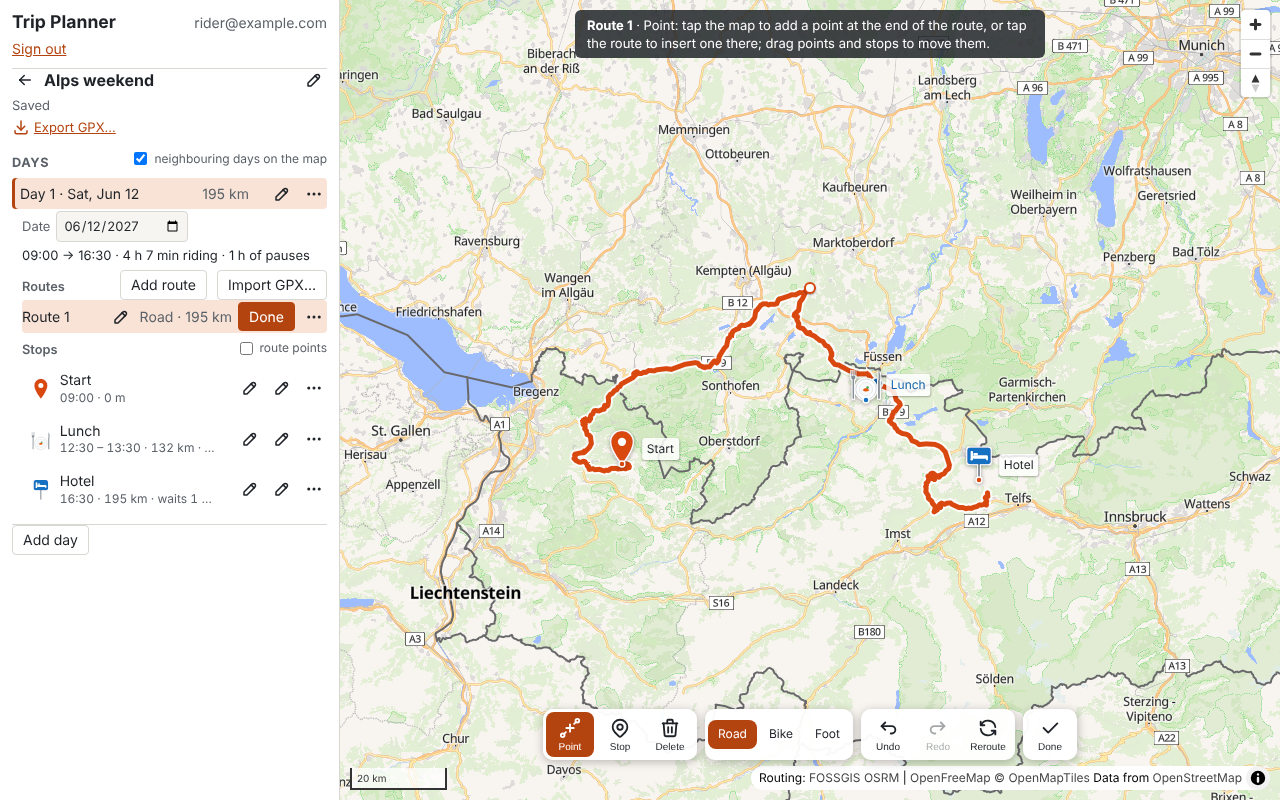
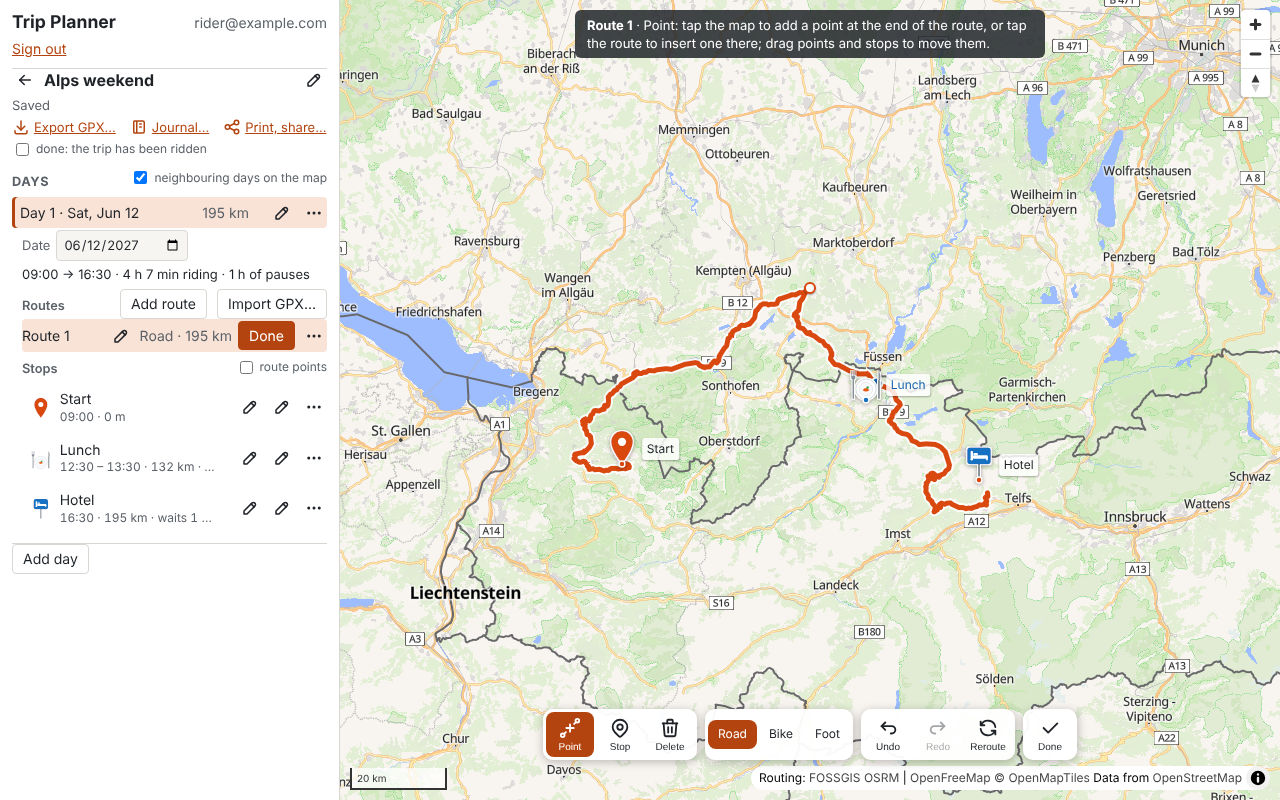
Document phase 5: journal, trip state, sharing
Overview, features, architecture (API, schema, layers), decisions,
stack notes on exif, fileinfo and upload limits, and the README with
the new screenshot. CI installs the exif extension.

Changed region(s): [[0.0, 0.1562, 0.2812, 0.7188]]

diff --git a/.github/architecture.md b/.github/architecture.md
@@ -10,12 +10,13 @@ flowchart LR
   subgraph browser["Browser"]
     pages["Landing, sign-up, sign-in<br/>server-rendered pages"]
     app["Planner app<br/>SolidJS + MapLibre GL JS"]
+    view["Read-only trip page<br/>own or shared under a link"]
   end
   subgraph server["planner.codevoid.de<br/>OpenBSD, httpd, php-fpm"]
     httpd["httpd<br/>static files, FastCGI"]
-    php["PHP application (Slim)<br/>pages, JSON API, GPX export"]
-    db[("SQLite<br/>accounts, trips")]
-    files[("File store<br/>photos, receipts, documents")]
+    php["PHP application (Slim)<br/>pages, JSON API, GPX export, journal files"]
+    db[("SQLite<br/>accounts, trips, journal")]
+    files[("File store<br/>the journal's files and previews")]
     smtpd["smtpd<br/>127.0.0.1:25"]
   end
   subgraph remote["Remote services"]
@@ -24,12 +25,14 @@ flowchart LR
   end
   pages --> httpd
   app -->|JSON API| httpd
+  view -->|JSON API, read-only| httpd
   httpd --> php
   php --> db
   php --> files
   php -->|invitations, password resets| smtpd
   app --> osrm
   app --> tiles
+  view --> tiles
 ```
 
 ## Block diagram
@@ -38,8 +41,8 @@ flowchart LR
 flowchart TB
   subgraph frontend["Planner app (frontend/)"]
     direction TB
-    ui["Presentation<br/>library, trip panel, map, toolbar, markers"]
-    state["Application state<br/>the open trip, undo and redo, routing pump, autosave"]
+    ui["Presentation<br/>library, trip panel, dialogs, map, toolbar, markers; the read-only page"]
+    state["Application state<br/>the open trip, undo and redo, routing pump, autosave, the journal"]
     fdomain["Domain<br/>route and day edits, legs, polyline"]
     client["API client"]
     ui --> state --> fdomain
@@ -48,7 +51,7 @@ flowchart TB
   subgraph backend["PHP application (src/)"]
     direction TB
     http["HTTP<br/>routes, middleware, templates, JSON"]
-    domain["Domain<br/>accounts, invitations, trip documents, export"]
+    domain["Domain<br/>accounts, invitations, trip documents, export, journal, sharing"]
     storage["Storage<br/>SQLite repositories, file store, mail"]
     http --> domain --> storage
   end
@@ -57,29 +60,38 @@ flowchart TB
 
 | Layer | Contents |
 |---|---|
-| Presentation (frontend) | The library (`library/`), the trip panel (`trip/`), the map with its route lines, stop and point markers, interactions, toolbar, hint bar and context menu (`map/`), dialogs and small controls (`ui/`). |
-| Application state (frontend) | The open trip, the selected day and the route being edited, undo and redo and the actions that edit the trip (`state/trip.ts`), the pull-based routing pump (`state/routing.ts`), the autosave (`state/autosave.ts`), the tool, the toggles, the open menu and dialog (`state/drawing.ts`). |
+| Presentation (frontend) | The library (`library/`), the trip panel and its dialogs for a stop, the export, the journal and sharing (`trip/`), the map with its route lines, stop, point and photo markers, interactions, toolbar, hint bar and context menu (`map/`), small controls (`ui/`), and the read-only trip page with its own map (`view/`), a second entry (`view.tsx`). |
+| Application state (frontend) | The open trip, the selected day and the route being edited, undo and redo and the actions that edit the trip (`state/trip.ts`), the pull-based routing pump (`state/routing.ts`), the autosave, which sends the stops in riding order (`state/autosave.ts`), the open trip's journal (`state/journal.ts`), the tool, the toggles, the open menu and dialogs (`state/drawing.ts`). |
 | Domain (frontend) | Pure edits of a route and of a day's stops and routes, the riding sequence of a day with distances and riding times, the day's timeline, leg keys and geometry, the polyline codec, the OSRM client (`routing/`); reading GPX files into routes and stops (`gpx/`); distances, nearest-line search and line simplification (`geo/`); the document types (`model/`). |
 | API client (frontend) | `api.ts`: requests to the JSON API, the one place that knows its URLs. |
-| HTTP (backend) | Slim routes and middleware (sessions, CSRF, body parsing, authentication), Plates templates for the public pages, JSON encoding of API answers (`Http/`, `Pages/`, `Api/`). |
-| Domain (backend) | Accounts and password resets (`Account/`), waiting list and invitations (`Signup/`), the library's trips and folders, trip documents with their validator and copies (`Trip/`), GPX writing with its options, the proximity of free stops and the export presets (`Export/`). |
-| Storage (backend) | PDO repositories over SQLite, the file store on disk, mail over SMTP (`Mail/`). |
+| HTTP (backend) | Slim routes and middleware (sessions, CSRF, body parsing, authentication), Plates templates for the public pages and the two bundle pages, JSON encoding of API answers (`Http/`, `Pages/`, `Api/`). |
+| Domain (backend) | Accounts and password resets (`Account/`), waiting list and invitations (`Signup/`), the library's trips and folders with their state and share token, trip documents with their validator and copies (`Trip/`), GPX writing with its options, the proximity of free stops and the export presets (`Export/`), the journal's entries, EXIF reading, files and previews (`Journal/`), the read-only API of a shared trip (`Share/`). |
+| Storage (backend) | PDO repositories over SQLite, the file store on disk (`Journal/FileStore`), mail over SMTP (`Mail/`). |
 
 ## API
 
-All under `/api`, for a signed-in user; answers are JSON unless a download.
+All under `/api`, for a signed-in user; answers are JSON unless a download or a file.
 
 | Method and path | Does |
 |---|---|
 | `GET /me` | The user's e-mail address and admin flag. |
-| `GET /trips` | The user's trips, last changed first, with their folder, day count and first dated day. |
+| `GET /trips` | The user's trips, last changed first, with their folder, state, day count and first dated day. |
 | `POST /trips` | Creates a trip from `{name, folderId}`; the folder may be null. |
-| `GET /trips/{id}` | The trip document: name, description, version, days (each with its date) with routes and stops. |
+| `GET /trips/{id}` | The trip document: name, description, state, version, days (each with its date) with routes and stops in riding order. |
 | `PUT /trips/{id}` | Replaces the trip's content with the document sent, which carries the version it was loaded at; 409 when that is no longer the current version, 422 when the document is malformed or names parts of another trip. |
 | `POST /trips/{id}/copies` | A copy of the trip with all its days under new ids, named after it, in its folder; answers the copy's id. |
 | `PATCH /trips/{id}` | Puts the trip into the folder of `{folderId}`, or into none for null. |
 | `DELETE /trips/{id}` | Deletes the trip with everything in it. |
 | `GET /trips/{id}/gpx` | The trip as GPX with the options `per=trip|day` (one file, or a zip with one per day), `form=tracks|routes`, `optional=0|1`, `reachM=<metres>`; `?day=<id>` one day alone. |
+| `GET /trips/{id}/share` | `{token}`: the token the trip's read-only page is public under, or null. |
+| `POST /trips/{id}/share` | Makes the page public under the trip's token, a new one where it has none; answers `{token}`. |
+| `DELETE /trips/{id}/share` | Takes the page off the public. |
+| `GET /trips/{id}/entries` | The trip's journal entries, oldest first: text, file (name, media type, size, whether an image), the part it is on, when and where a photo was taken. |
+| `POST /trips/{id}/entries` | Adds an entry from a multipart form: `text`, one of `dayId`, `stopId`, `routeId` (none for the trip), `file`. A photo's EXIF time and position are read; one with a time and no part goes to the day of that date. |
+| `PATCH /trips/{id}/entries/{entry}` | Replaces the entry's text from `{text}`. |
+| `DELETE /trips/{id}/entries/{entry}` | Deletes the entry with its file. |
+| `GET /trips/{id}/entries/{entry}/file` | The file as uploaded, shown in the browser where it can be, offered for download otherwise. |
+| `GET /trips/{id}/entries/{entry}/preview` | A small JPEG of an image entry. |
 | `GET /export-presets` | The user's export presets by name. |
 | `POST /export-presets` | Keeps `{name, options}` as a preset, replacing one of that name. |
 | `DELETE /export-presets/{id}` | Deletes the preset. |
@@ -88,10 +100,15 @@ All under `/api`, for a signed-in user; answers are JSON unless a download.
 | `PATCH /folders/{id}` | Renames the folder from `{name}`. |
 | `DELETE /folders/{id}` | Deletes the folder; its trips stay, in no folder. |
 
+A trip shared under a token is readable without sign-in under `/api/shared/{token}`:
+the document, `/entries`, `/entries/{entry}/file` and `/entries/{entry}/preview`, as above.
+
+The read-only page is served at `/trips/{id}` for the owner and at `/t/{token}` for
+everyone; the page names the API it reads from.
+
 ## Database
 
-The schema is `db/schema.sql`. Attachments and comments are planned, not in the schema
-yet.
+The schema is `db/schema.sql`.
 
 ```mermaid
 erDiagram
@@ -106,8 +123,10 @@ erDiagram
   DAY ||--o{ ROUTE : "routes, in order"
   DAY ||--o{ STOP : "stops"
   STOP }o--o| ROUTE : "bound to a point of"
-  TRIP ||--o{ ATTACHMENT : "on the trip, a day, a stop or a route"
-  TRIP ||--o{ COMMENT : "on the trip, a day, a stop or a route"
+  TRIP ||--o{ ENTRY : "journal"
+  DAY |o--o{ ENTRY : "on"
+  STOP |o--o{ ENTRY : "on"
+  ROUTE |o--o{ ENTRY : "on"
 
   USER {
     int id PK
@@ -147,6 +166,8 @@ erDiagram
     int id PK
     string name
     string description
+    string state "planned, done"
+    string share_token "while the read-only page is public"
     int version
     datetime updated_at
   }
@@ -169,6 +190,7 @@ erDiagram
   }
   STOP {
     string id PK
+    int position "riding order, as the client computes it"
     string name
     string kind "the icon: hotel, restaurant, fuel, sight, photo, break, other"
     float lng
@@ -182,25 +204,25 @@ erDiagram
     int pause_minutes
     bool optional
   }
-  ATTACHMENT {
-    int id PK
-    string kind "photo, receipt, document"
-    string file
-    string caption
-    datetime taken_at
-  }
-  COMMENT {
+  ENTRY {
     int id PK
     string text
+    string file_name "null for a note alone"
+    string media_type
+    int size
+    datetime taken_at "a photo's EXIF time, as the camera wrote it"
+    float lng "a photo's EXIF position"
+    float lat
     datetime created_at
   }
 ```
 
-Attachments and comments are planned (phase 5). A trip's parts carry ids the client
-generates, so that the trip's content is saved as one document: rows are upserted by id
-and the ones the document no longer holds are deleted. A route's points and legs are
-stored as JSON in the route's row, in the shape the editor works with; each routed leg
-holds its polyline6 geometry, length and riding time as OSRM answered. A bound stop's
-position equals its route point's, which the validator checks. Attachments and comments
-will carry one nullable foreign key per possible target with a check that exactly one is
-set, so that deleting a target deletes them.
+A trip's parts carry ids the client generates, so that the trip's content is saved as
+one document: rows are upserted by id and the ones the document no longer holds are
+deleted. A route's points and legs are stored as JSON in the route's row, in the shape
+the editor works with; each routed leg holds its polyline6 geometry, length and riding
+time as OSRM answered. A bound stop's position equals its route point's, which the
+validator checks. A journal entry belongs to its trip and names at most one of a day, a
+stop or a route by a nullable foreign key; when that part goes, the key is set to null
+and the entry stays with the trip. An entry's file lies in the file store under
+`files/{trip}/{entry}`, its preview beside it.

diff --git a/.github/decisions.md b/.github/decisions.md
@@ -89,7 +89,7 @@ entries at the end of their section.
   the app offers to reload, which is enough while a trip has one editor.
 - **Parts carry client-generated ids and are upserted.** The server upserts each day, stop
   and route by id and deletes the rows the document no longer holds, rather
-  than deleting and reinserting: attachments of phase 4 will reference stops and routes
+  than deleting and reinserting: journal entries reference days, stops and routes
   by id and must survive a save. Since the ids are the client's choice, a save first
   checks that none of them belongs to another trip, in one place, rather than guarding
   each upsert. Trips themselves are created by the server with integer ids; a trip is the
@@ -127,6 +127,50 @@ entries at the end of their section.
   as starting on the earliest of them. A new day after a dated one is dated the day
   after, so a consecutive trip needs one date typed. A trip-level start date was tried
   and dropped: it was a second source for the same fact.
+
+## After the trip
+
+- **One kind of journal entry, not attachments and comments.** The plan had photos,
+  receipts and documents as attachments and notes as comments. In use they are one
+  thing: a note, a file, or a file with a note under it, in order of adding. One table,
+  one dialog, one list; a file's media type says what it is.
+- **An entry outlives its part.** A photo on a stop stays with the trip when the stop
+  is removed, with its day, stop or route reference set to null: the journal is the
+  record of the trip, and a removed stop is still where the photo was taken. The first
+  draft cascaded the deletion; a stop moved in a reorganisation would have taken its
+  photos with it.
+- **Photos are placed by their EXIF data on the server.** The server reads the time the
+  camera wrote (local, without a zone) and the GPS position when a file is stored, since
+  it has the file anyway and the browser would need a parser of its own. A photo added
+  to the trip itself goes to the day of its date; one added to a day, a stop or a route
+  stays where the user put it. The position places it on the map; nothing is matched
+  against the route. Without the exif extension a photo is kept and shown, not placed.
+- **Files are served through PHP, not by httpd.** A file is read by its owner or through
+  the trip's share token, so every read passes the application's check; the file store
+  lies outside the web root. Previews are small JPEGs made with GD on first request and
+  kept beside the file, so a page with many photos loads a few hundred kilobytes.
+- **The trip's state is part of the document.** Planned or done is saved with the trip
+  like its name, counts as an undo step and shows in the library. A separate endpoint
+  for one flag would have been a second way to change a trip.
+- **Stops are stored in riding order.** The client computes the order from the routes
+  (the sequence); the autosave sends each day's stops in it, and the server stores the
+  position. The read-only page and anything on the server can then list stops without
+  the routing geometry. Stops the client lists are still ordered by the sequence, so the
+  stored order is a copy that is always current.
+- **The read-only page is the frontend's second entry.** The timeline, the riding
+  sequence, the distances and the labels exist in TypeScript; porting them to PHP for a
+  server-rendered page would have been a second implementation to keep in step. The
+  page is a small SolidJS bundle without the editor that reads the trip and its journal
+  from the API the page names: the owner's trip API at `/trips/{id}`, or the read-only
+  API of a shared trip at `/t/{token}`, which needs no sign-in. Sharing is a random
+  token on the trip, made and withdrawn by the owner; anyone with the link reads the
+  trip, its journal and its photos. The page prints: the map keeps its drawing buffer,
+  the controls are hidden.
+- **The asset tags walk the manifest's imports.** With two entries, Vite puts the styles
+  both import (MapLibre's and the markers') into the chunk they share, listed under that
+  chunk in the manifest, not under the entries. The tags of a page are the stylesheets
+  of its imported chunks, then its own, in that order, so that an entry's own styles
+  come last as in its source.
 
 ## Export
 
@@ -166,7 +210,9 @@ entries at the end of their section.
   repositories, the validator and the export; Vitest the pure modules and the store. The
   pages and the editor are exercised with Playwright against `php -S` by hand: sign-up,
   a route with the point, stop and delete tools, free stops connected and disconnected,
-  the stop dialog, neighbouring days, folders and the search, and then
+  the stop dialog, neighbouring days, folders and the search, the GPX import and the
+  export dialog, the journal with a photo placed by its EXIF data, the trip's state,
+  sharing and the read-only page as a guest, and then
   from the mailed link, a trip with stops added by tapping, routing, the line tools, undo
   and redo, the save, a reload and the downloads. Routing in that run answers from a mock
   where OSRM cannot be reached. Keeping it in CI would mean a browser and a PHP server in

diff --git a/.github/overview.md b/.github/overview.md
@@ -29,8 +29,8 @@ routing is done in the browser by the FOSSGIS OSRM servers.
 
 ## Phases
 
-Phases 0 to 4 are built; testing phase 1 changed the model (see decisions.md), which
-phase 2 brought in. Later phases describe intent and change as the work progresses.
+Phases 0 to 5 are built; testing phase 1 changed the model (see decisions.md), which
+phase 2 brought in. The later work describes intent and changes as it progresses.
 
 | Phase | Content | Done when |
 |---|---|---|
@@ -39,5 +39,5 @@ phase 2 brought in. Later phases describe intent and change as the work progress
 | 2 Routes and stops | Routes as geometry with stops bound to route points or free beside the route; several routes per day, each with its profile; editing as a mode of one route; the panel listing routes and stops in riding order with distances, panning the map; neighbouring days dimmed. Folders for trips and a search across them. | Built; a weekend planned on it and the GPX working on the device confirm it. |
 | 3 Time | Dates on days. Arrival times and pauses on stops, the computed day timeline from the first timed stop, with waiting and late arrivals. Day summary: distance, riding time, departure and arrival, pauses, late stops. | Built; a day planned with a fixed lunch confirms it. |
 | 4 Library and export | GPX import into a day: routes, tracks, Garmin's calculated way, waypoints as stops. Move, duplicate and copy for days, routes, stops and trips. The export dialog with scope, packaging, tracks or routes, optional parts, reach of free stops, and saved presets. | Built; an export that works on the device and an import of a file from it confirm it. |
-| 5 After the trip | Attachments and comments on everything. Photos placed on the day and the map by their EXIF time and position. Trip state planned or done. A read-only trip page for printing and sharing. |  |
+| 5 After the trip | A journal of notes and files on the trip, a day, a stop or a route. Photos placed on the day and the map by their EXIF time and position. Trip state planned or done. A read-only trip page for printing, shared under a link. | Built; a ridden trip with its photos and notes on the shared page confirms it. |
 | Later | Sharing between users. Valhalla routing with its motorcycle costing. Elevation and surface colouring of routes. Further export formats. |  |

diff --git a/README.md b/README.md
@@ -4,8 +4,8 @@ Plans whole motorcycle trips, not single routes: days of routes drawn along the 
 stops on them or beside them, exported as GPX in the shape a device needs.
 
 Runs at <https://planner.codevoid.de>, by invitation. In development: planning a trip on
-the map with its times and exporting it works; GPX import, photos and receipts are on
-the way.
+the map with its times, GPX in and out, a journal with photos, and a page to print or
+share work; sharing between users is on the way.
 
 ![A day planned on the map](docs/screenshot.png)
 
@@ -35,6 +35,12 @@ the way.
 - **GPX export the way the device wants it** — the trip or a day, one file or one per
   day, routes as tracks or as points for the device to route, with or without the
   optional parts; the settings kept as named presets.
+- **A journal on everything** — notes, photos, receipts and documents on the trip, a
+  day, a stop or a route. Photos stand on the map where they were taken and land on the
+  day they were taken.
+- **Planned, then ridden** — mark a trip done; the library shows it.
+- **Print it, share it** — a read-only page with the map, every day's stops and times
+  and the journal, for printing, or shared under a link that needs no account.
 
 ## Getting started
 
@@ -46,6 +52,8 @@ the way.
 4. Open a stop's details for its arrival time and pause; the first stop's time starts
    the day's timeline.
 5. *Export GPX…* in the trip's panel: pick the scope and the form, download.
+6. After the ride, *Journal…* on the trip, a day, a stop or a route takes the notes and
+   photos; *Print, share…* opens the trip's page or shares it under a link.
 
 | Key or gesture | Does |
 |---|---|

diff --git a/.github/stackinfo.md b/.github/stackinfo.md
@@ -4,7 +4,13 @@
 
 - OpenBSD with httpd and php-fpm. php-fpm runs chrooted to `/var/www`, so the application,
   its data and the SQLite file live below that directory.
-- PHP 8.4 with pdo_sqlite, sqlite3, zip, gd, intl, curl, xsl.
+- PHP 8.4 with pdo_sqlite, sqlite3, zip, gd, intl, curl, xsl, and the core exif and
+  fileinfo extensions: gd makes the journal's image previews, fileinfo tells uploaded
+  files' types, exif reads when and where a photo was taken (without exif, photos are
+  kept but not placed).
+- The journal's files are uploads through php-fpm: `upload_max_filesize` and
+  `post_max_size` in its php.ini bound a photo's size (PHP's defaults are 2 MB and 8 MB;
+  phone photos need more).
 - SQLite in WAL mode with foreign keys on, one database file.
 - Mail over SMTP to the local smtpd at 127.0.0.1:25; PHP's `mail()` is not used (no
   sendmail inside the chroot).
@@ -15,7 +21,8 @@
 ## Frontend
 
 - SolidJS 1.9 (UI and state), Vite 7 (build; see decisions.md for why not 8), TypeScript 7
-  (type checking), Vitest 5 with jsdom for unit tests of the pure modules.
+  (type checking), Vitest 5 with jsdom for unit tests of the pure modules. Two entries:
+  the planner app and the read-only trip page.
 - MapLibre GL JS 6 (map rendering, Web Mercator).
 - Route tool, GPX reading, line simplification and polyline handling ported from Layer Slayer.
 - Routing by the FOSSGIS OSRM servers (routing.openstreetmap.de): at most one request per

diff --git a/.github/features.md b/.github/features.md
@@ -54,10 +54,20 @@
   each route is named after its day and its own name. Named presets of these options are
   kept with the account.
 
+- A journal on the trip, on a day, on a stop and on a route, opened from their rows and
+  menus: entries of a note, a file (a photo, a receipt, a document) or both, edited and
+  deleted in place; rows say how many entries a part has. A photo's time and position
+  are read from its EXIF data: it is shown with the time it was taken, stands on the
+  map where it was taken, and a photo added to the trip goes to the day of its date.
+  Images get a preview; other files open or download under their name. An entry stays
+  with the trip when its part is removed.
+- A trip is planned or done; the library marks done trips.
+- A read-only page of the trip for reading and printing: the map with every day, the
+  journal, each day with its routes and its stops in riding order with their times,
+  addresses, bookings and notes. The page is the owner's, or shared under a link that
+  needs no sign-in and can be withdrawn.
+
 ## Planned
 
-- Photos, receipts and documents attached to the trip, a day, a stop or a route; photos
-  placed by their EXIF time and position; comments for notes before and after the trip.
-- A read-only trip page for printing and sharing.
 - A base map switcher; a light and dark interface switchable by hand (it follows the
   browser now).
